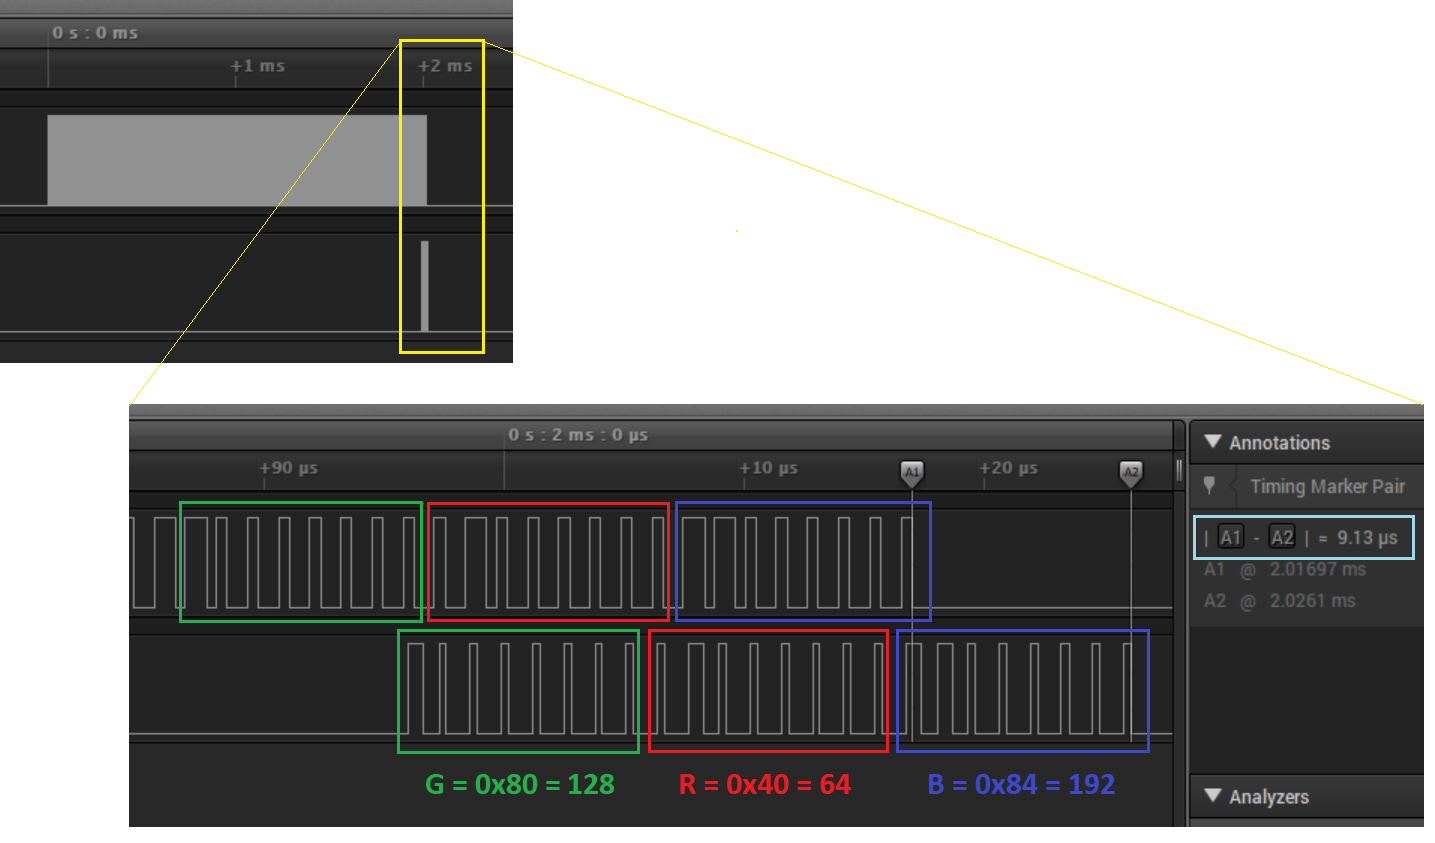
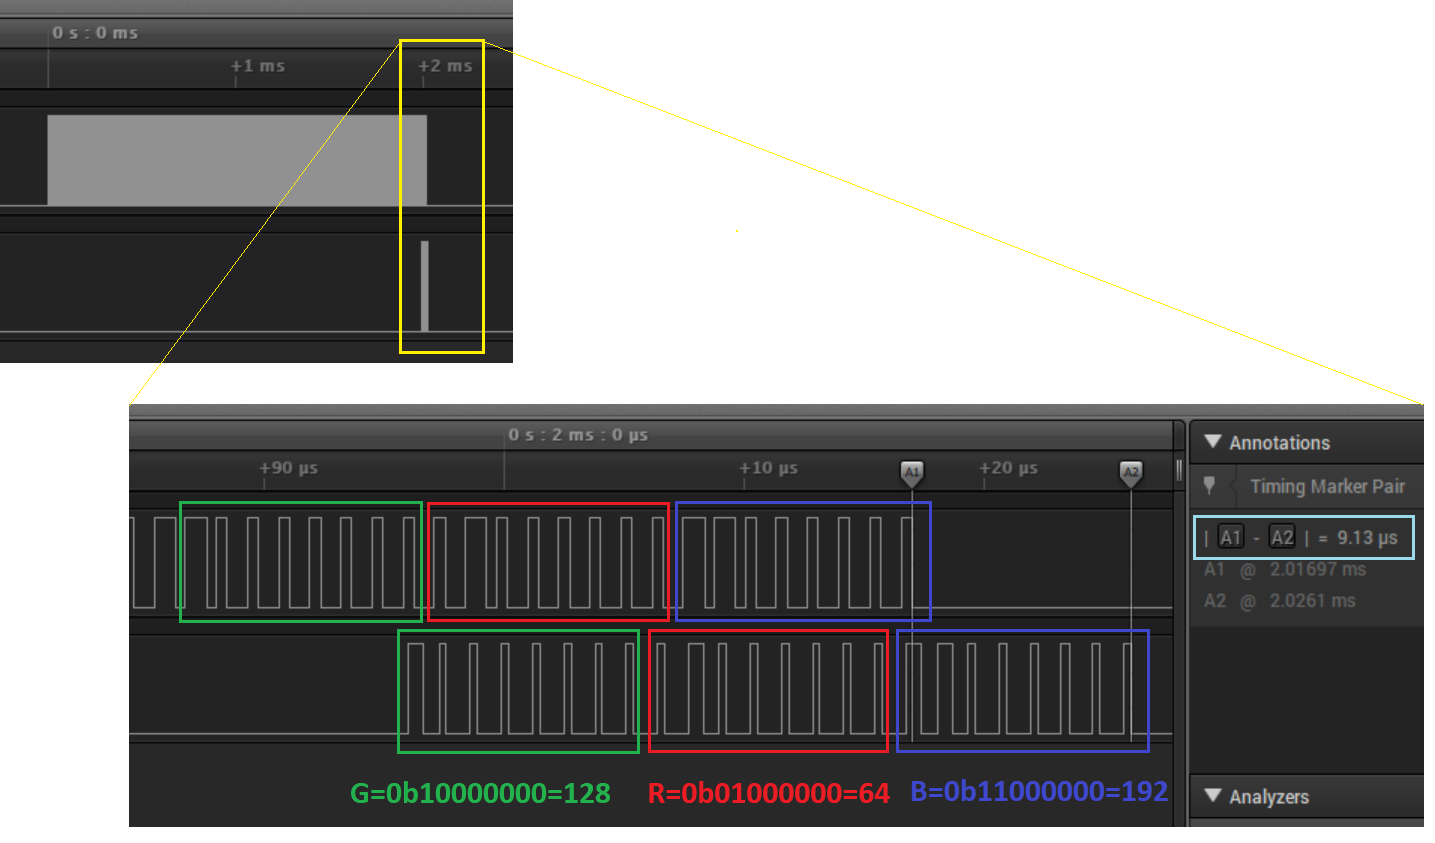
typos

Changed region(s): [[0.2453, 0.8944, 0.8279, 0.9561]]

diff --git a/README.md b/README.md
@@ -993,12 +993,12 @@ I put a second probe on the data-out pin of the board, which is the data-out of 
   #define NUMPIXELS      65
   for( int i=0; i<NUMPIXELS; i++ ) pixels.setPixelColor(i, i*0x010203 );
   pixels.show();
-}
 ```
 
 I wrote the above small test loop. 
-It configures _65_ pixels. Since this is one more pixel than is present 
+It configures _65_ pixels (numbered 0 up to and including 64). Since this is one more pixel than is present 
 on the board, the data-out pin of the board will show the data send to this non-existing NeoPixel 64.
+
 Note that the loop sets the red value of NeoPixel _i_ to the value _i_, the green value to _2×i_,
 and the blue value to _3×i_. In other words, NeoPixel 64 will be configured to R=64, G=128, B=192.
 
@@ -1007,14 +1007,14 @@ and the blue value to _3×i_. In other words, NeoPixel 64 will be configured to 
  - The top of the picture shows a trace of the two signals:
    the signal on _board data-in_ (NewPixel 0 data-in) and the signal on _board data-out_ (NeoPixel 63 data-out, NeoPixel 64 data-in).
  - Sending the RGB data to the board takes, as before ~2ms (the wide gray rectangle in the top trace). 
- - All the 3×8×64 pulses pass NeoPixel 0, but NeoPixel 64 only sees the remaining 3×8×1 pulses for itself.
+ - All the 3×8×64 pulses pass NeoPixel 0, but NeoPixel 64 only sees the remaining 3×8×1 pulses for itself
    (the small gray rectangle in the top trace). 
  - The bottom of the picture shows the same trace, but zoomed in (as indicated in yellow) on the end of the trace.
- - NeoPixel 64 will be configured to G=128=0b1000000, R=64=0b0100000, B=192=0b11000000; 
+ - NeoPixel 64 will be configured to G=128, R=64, B=192; 
    we see those pulses pass as the last ones on data-in of NeoPixel 0.
  - This does mean that the daisy-chained NeoPixels are not one big shift register: the data of NeoPixel 64 is not shifted-in as first, but as last.
  - This is confirmed by the [WS2812B datasheet](https://cdn-shop.adafruit.com/datasheets/WS2812B.pdf):
-   _the first pixel collect initial 24bit data then sent to the internal data latch, the other data [...] sent to the next cascade pixel_
+   _the first pixel collect initial 24bit data then sent to the internal data latch, the other data [...] sent to the next cascade pixel_.
  - The pulse are passed on by NeoPixel 0 to NeoPixel 1, which passes it on to 2, etc, until they arrive on the data-in of NeoPixel 64.
  - We see that the chain of 64 NeoPixels causes a delay of 9.13µs (cyan rectangle).
  - I suspect that a NeoPixel is "activated" - starts illuminating using its new settings - once the data 
